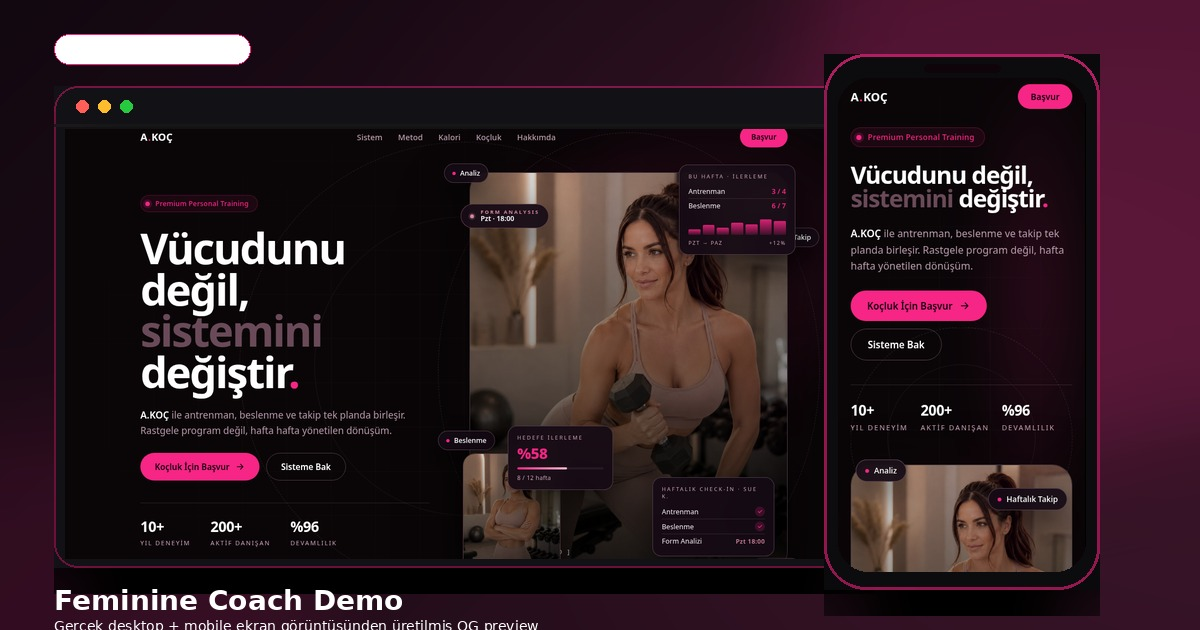
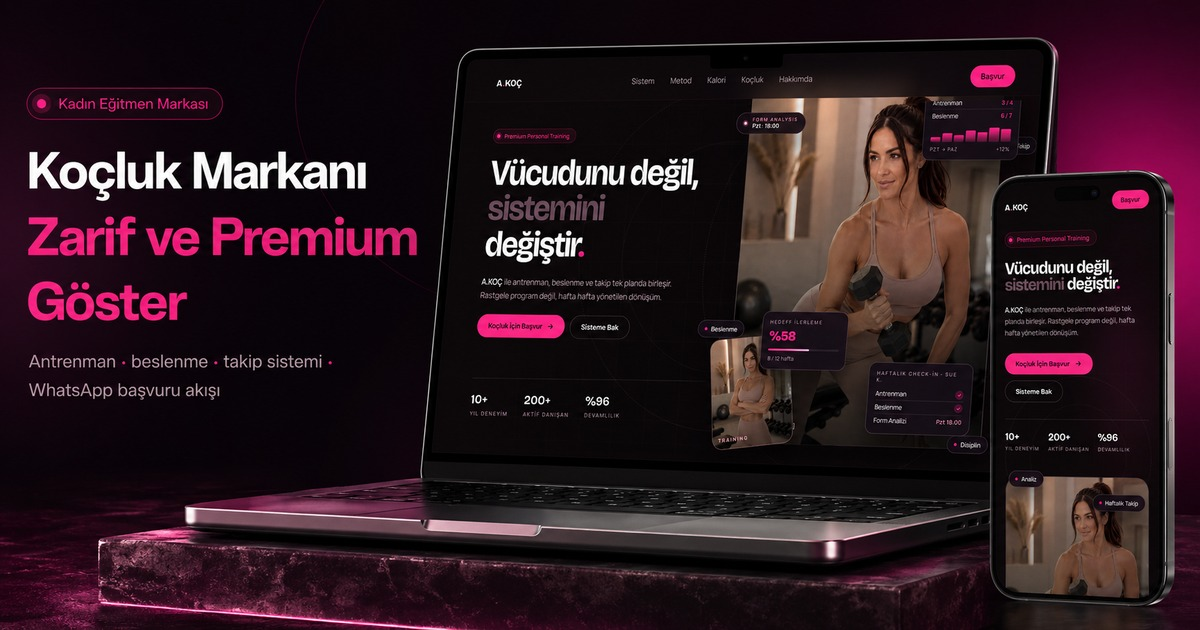
Update Feminine OG preview

diff --git a/feminine/index.html b/feminine/index.html
@@ -3,8 +3,8 @@
 <head>
   <meta charset="UTF-8" />
   <meta name="viewport" content="width=device-width, initial-scale=1" />
-  <title>Feminine Coach | Premium Wellness Website Demo</title>
-  <meta name="description" content="Kadın koçlar, wellness markaları ve estetik kişisel marka görünümü için premium dijital vitrin demosu.">
+  <title>Feminine Demo | Kadın Eğitmenler İçin Zarif Dijital Vitrin</title>
+  <meta name="description" content="Kadın eğitmenler için antrenman, beslenme, takip sistemi ve WhatsApp başvuru akışını zarif ve premium gösteren Feminine demo.">
 
   <link rel="preconnect" href="https://fonts.googleapis.com">
   <link rel="preconnect" href="https://fonts.gstatic.com" crossorigin>
@@ -1340,17 +1340,17 @@
 
 <link rel="canonical" href="https://www.fatihtopcu.online/feminine/">
 <meta property="og:type" content="website">
-<meta property="og:title" content="Feminine Coach | Premium Wellness Website Demo">
-<meta property="og:description" content="Kadın koçlar, wellness markaları ve estetik kişisel marka görünümü için premium dijital vitrin demosu.">
+<meta property="og:title" content="Kadın Eğitmenler İçin Zarif Dijital Vitrin">
+<meta property="og:description" content="Kadın eğitmenler için antrenman, beslenme, takip sistemi ve WhatsApp başvuru akışını zarif ve premium gösteren Feminine demo.">
 <meta property="og:url" content="https://www.fatihtopcu.online/feminine/">
 <meta property="og:image" content="https://www.fatihtopcu.online/og/feminine-og.jpg">
 <meta property="og:image:secure_url" content="https://www.fatihtopcu.online/og/feminine-og.jpg">
 <meta property="og:image:width" content="1200">
 <meta property="og:image:height" content="630">
-<meta property="og:image:alt" content="Feminine Coach | Premium Wellness Website Demo preview">
+<meta property="og:image:alt" content="Feminine temalı kadın eğitmen dijital vitrin önizleme görseli">
 <meta name="twitter:card" content="summary_large_image">
-<meta name="twitter:title" content="Feminine Coach | Premium Wellness Website Demo">
-<meta name="twitter:description" content="Kadın koçlar, wellness markaları ve estetik kişisel marka görünümü için premium dijital vitrin demosu.">
+<meta name="twitter:title" content="Kadın Eğitmenler İçin Zarif Dijital Vitrin">
+<meta name="twitter:description" content="Kadın eğitmenler için antrenman, beslenme, takip sistemi ve WhatsApp başvuru akışını zarif ve premium gösteren Feminine demo.">
 <meta name="twitter:image" content="https://www.fatihtopcu.online/og/feminine-og.jpg">
 
 <!-- OG Capture Mode: deterministic screenshot state for social preview generation -->